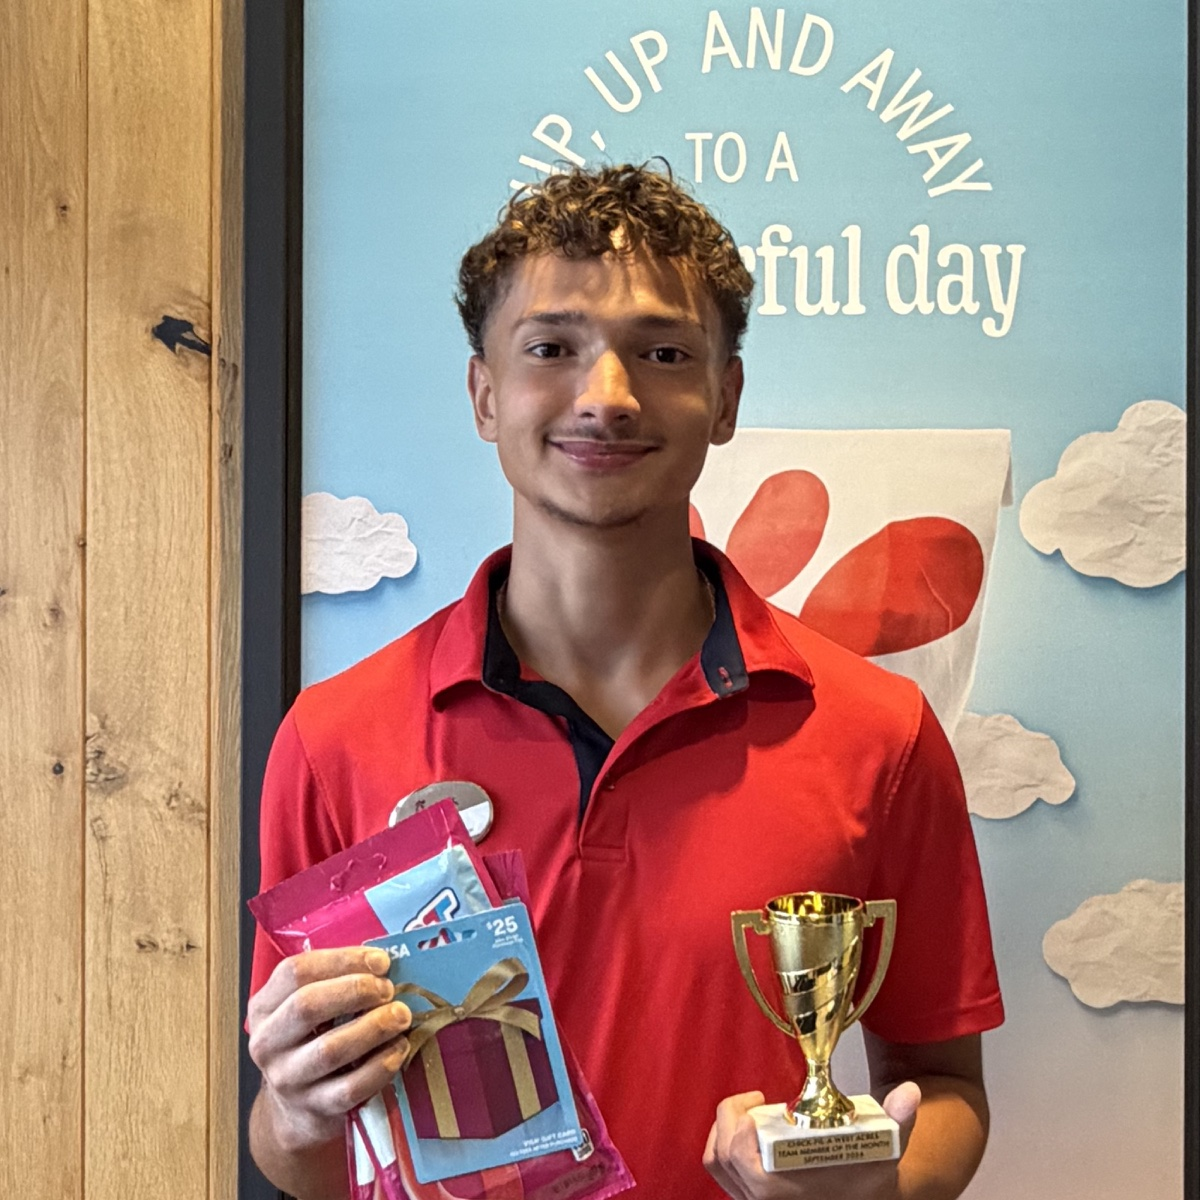
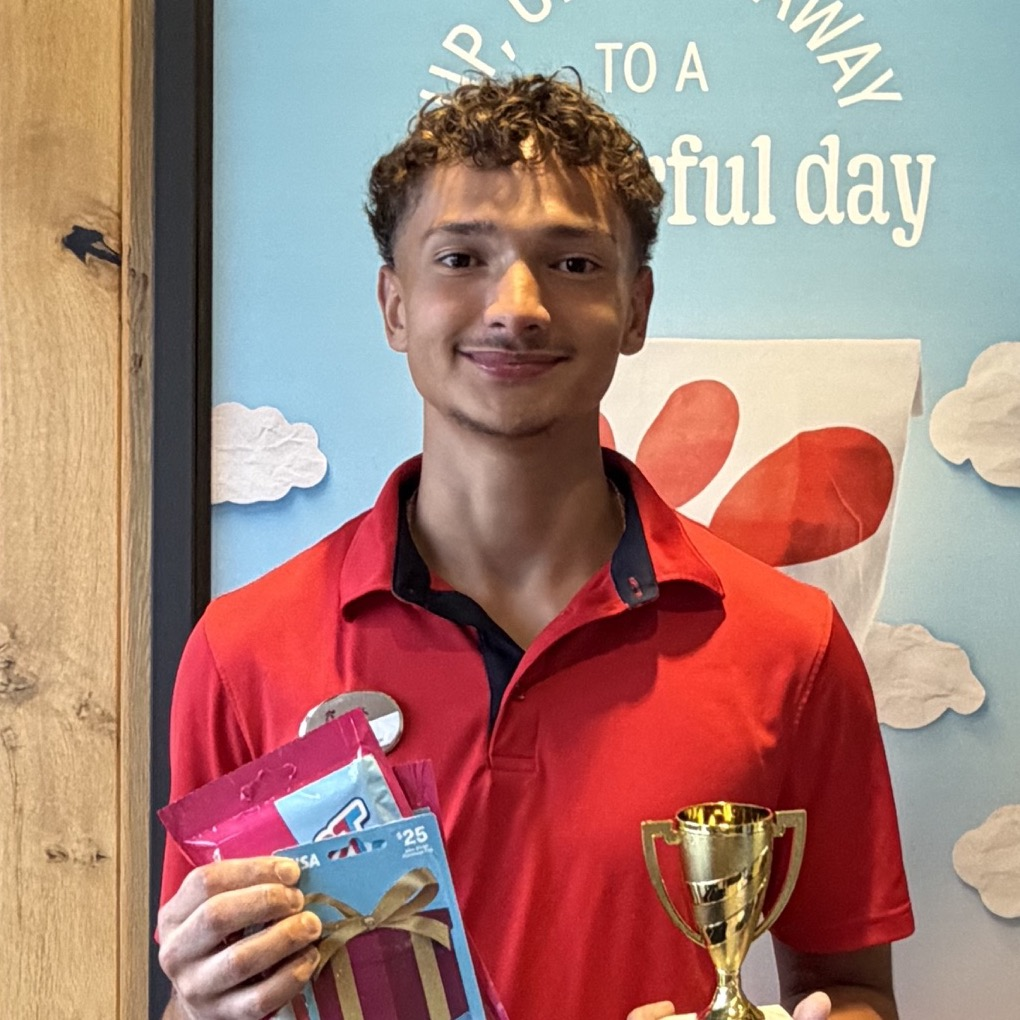
Polish portal member photo and breadcrumbs

diff --git a/team-portal-applications.html b/team-portal-applications.html
@@ -22,7 +22,7 @@
     </header>
     <main id="main">
       <section class="team-portal-section section-pad" aria-labelledby="portal-page-title">
-        <div class="section-kicker"><span>06</span> Team Portal · Employee access</div>
+        <div class="section-kicker"><span>06</span> <a class="portal-home-crumb" href="team-portal.html">Team Portal</a> · Employee access</div>
         <div class="portal-page-heading"><div><p class="eyebrow">Chick-fil-A West Acres team</p><h1 id="portal-page-title">Applications</h1></div><p>Explore opportunities to grow and lead at Chick-fil-A West Acres.</p></div>
         <div class="portal-content-area"><p class="portal-status"><strong>Preview only</strong><span>Secure employee sign-in is not active, so application links are not available yet.</span></p><div class="portal-application-panel"><p class="eyebrow">Growth opportunities</p><ul class="portal-application-list"><li id="application-certified-trainer"><button type="button" disabled><span class="portal-application-number">01</span><span class="portal-application-name">Certified Trainer Application</span><span class="portal-application-state">Application link coming soon</span></button></li><li id="application-assistant-shift-leader"><button type="button" disabled><span class="portal-application-number">02</span><span class="portal-application-name">Assistant Shift Leader Application</span><span class="portal-application-state">Application link coming soon</span></button></li><li id="application-shift-leader"><button type="button" disabled><span class="portal-application-number">03</span><span class="portal-application-name">Shift Leader Application</span><span class="portal-application-state">Application link coming soon</span></button></li><li id="application-supervisor"><button type="button" disabled><span class="portal-application-number">04</span><span class="portal-application-name">Supervisor Application</span><span class="portal-application-state">Application link coming soon</span></button></li></ul></div><a class="portal-back-link" href="team-portal.html">Back to Team Portal Landing Page</a></div>
       </section>

diff --git a/styles.css b/styles.css
@@ -274,6 +274,9 @@ h2 { margin-bottom: 0; font-size: clamp(47px, 5.1vw, 67px); line-height: 1.03; }
 .team-portal-section { min-height: 590px; background: var(--green); color: white; }
 .team-portal-section .section-kicker { color: rgba(255,255,255,.65); }
 .team-portal-section .section-kicker span { color: #f0c876; }
+.team-portal-section .section-kicker .portal-home-crumb { color: inherit; text-decoration: underline; text-decoration-color: rgba(255,255,255,.55); text-underline-offset: 3px; }
+.team-portal-section .section-kicker .portal-home-crumb:hover { color: #f0c876; text-decoration-color: currentColor; }
+.team-portal-section .section-kicker .portal-home-crumb:focus-visible { outline: 2px solid #f0c876; outline-offset: 3px; }
 .portal-status { display: grid; gap: 5px; margin: 19px 0 0; padding: 13px 15px; background: #f0eadb; color: var(--muted); font-size: 10px; line-height: 1.7; }
 .portal-status strong { color: var(--red); font-size: 8px; letter-spacing: .13em; text-transform: uppercase; }
 .portal-page-heading { display: grid; grid-template-columns: 1fr .6fr; gap: 10%; align-items: end; margin-top: 31px; }

diff --git a/team-portal-faqs.html b/team-portal-faqs.html
@@ -22,7 +22,7 @@
     </header>
     <main id="main">
       <section class="team-portal-section section-pad" aria-labelledby="portal-page-title">
-        <div class="section-kicker"><span>06</span> Team Portal · Employee access</div>
+        <div class="section-kicker"><span>06</span> <a class="portal-home-crumb" href="team-portal.html">Team Portal</a> · Employee access</div>
         <div class="portal-page-heading"><div><p class="eyebrow">Chick-fil-A West Acres team</p><h1 id="portal-page-title">Frequently Asked Questions</h1></div><p>Answers to common team questions and portal topics.</p></div>
         <div class="portal-content-area">
           <p class="portal-status"><strong>Preview only</strong><span>Secure employee sign-in is not active yet. Keep employee-specific information off this page until the portal is protected.</span></p>

diff --git a/team-portal-calendar.html b/team-portal-calendar.html
@@ -22,7 +22,7 @@
     </header>
     <main id="main">
       <section class="team-portal-section section-pad" aria-labelledby="portal-page-title">
-        <div class="section-kicker"><span>06</span> Team Portal · Employee access</div>
+        <div class="section-kicker"><span>06</span> <a class="portal-home-crumb" href="team-portal.html">Team Portal</a> · Employee access</div>
         <div class="portal-page-heading"><div><p class="eyebrow">Chick-fil-A West Acres team</p><h1 id="portal-page-title">Calendar</h1></div><p>See team events by month or explore the whole year.</p></div>
         <div class="portal-content-area">
           <p class="portal-status"><strong>Preview only</strong><span>Team event listings are preview content and are not shared with the team. Secure employee sign-in is not active.</span></p>

diff --git a/team-portal-systems.html b/team-portal-systems.html
@@ -22,7 +22,7 @@
     </header>
     <main id="main">
       <section class="team-portal-section section-pad" aria-labelledby="portal-page-title">
-        <div class="section-kicker"><span>06</span> Team Portal · Employee access</div>
+        <div class="section-kicker"><span>06</span> <a class="portal-home-crumb" href="team-portal.html">Team Portal</a> · Employee access</div>
         <div class="portal-page-heading"><div><p class="eyebrow">Chick-fil-A West Acres team</p><h1 id="portal-page-title">Systems</h1></div><p>Leadership, development, and handbook resources in one place.</p></div>
         <div class="portal-content-area">
           <p class="portal-status"><strong>Preview only</strong><span>Secure employee sign-in is not active. Handbook and pathway content can be added when approved.</span></p>

diff --git a/team-portal-forms.html b/team-portal-forms.html
@@ -22,7 +22,7 @@
     </header>
     <main id="main">
       <section class="team-portal-section section-pad" aria-labelledby="portal-page-title">
-        <div class="section-kicker"><span>06</span> Team Portal · Employee access</div>
+        <div class="section-kicker"><span>06</span> <a class="portal-home-crumb" href="team-portal.html">Team Portal</a> · Employee access</div>
         <div class="portal-page-heading"><div><p class="eyebrow">Chick-fil-A West Acres team</p><h1 id="portal-page-title">Links</h1></div><p>A starting point for team forms, scholarships, and related resources.</p></div>
         <div class="portal-content-area">
           <p class="portal-status"><strong>Preview only</strong><span>Secure employee sign-in is not active, so no internal content is stored here yet.</span></p>

diff --git a/team-portal-quick-policies.html b/team-portal-quick-policies.html
@@ -22,7 +22,7 @@
     </header>
     <main id="main">
       <section class="team-portal-section section-pad" aria-labelledby="portal-page-title">
-        <div class="section-kicker"><span>06</span> Team Portal · Employee access</div>
+        <div class="section-kicker"><span>06</span> <a class="portal-home-crumb" href="team-portal.html">Team Portal</a> · Employee access</div>
         <div class="portal-page-heading"><div><p class="eyebrow">Chick-fil-A West Acres team</p><h1 id="portal-page-title">Quick Policies</h1></div><p>Short reminders for common team processes and expectations.</p></div>
         <div class="portal-content-area">
           <p class="portal-status"><strong>Preview only</strong><span>These policy references are for the team portal preview.</span></p>

diff --git a/team-portal-platforms.html b/team-portal-platforms.html
@@ -22,7 +22,7 @@
     </header>
     <main id="main">
       <section class="team-portal-section section-pad" aria-labelledby="portal-page-title">
-        <div class="section-kicker"><span>06</span> Team Portal · Employee access</div>
+        <div class="section-kicker"><span>06</span> <a class="portal-home-crumb" href="team-portal.html">Team Portal</a> · Employee access</div>
         <div class="portal-page-heading"><div><p class="eyebrow">Chick-fil-A West Acres team</p><h1 id="portal-page-title">Platforms</h1></div><p>Tools and platforms used by the Chick-fil-A West Acres team.</p></div>
         <div class="portal-content-area">
           <p class="portal-status"><strong>Preview only</strong><span>Platform access depends on your approved team account.</span></p>

diff --git a/team-portal-handbook.html b/team-portal-handbook.html
@@ -22,7 +22,7 @@
     </header>
     <main id="main">
       <section class="team-portal-section section-pad" aria-labelledby="portal-page-title">
-        <div class="section-kicker"><span>06</span> Team Portal · Employee access</div>
+        <div class="section-kicker"><span>06</span> <a class="portal-home-crumb" href="team-portal.html">Team Portal</a> · Employee access</div>
         <div class="portal-page-heading"><div><p class="eyebrow">Chick-fil-A West Acres team</p><h1 id="portal-page-title">Team Handbook</h1></div><p>A broad overview of store standards and policies.</p></div>
         <div class="portal-content-area">
           <p class="portal-status"><strong>Preview only</strong><span>The handbook PDF will appear here when it is available.</span></p>

diff --git a/team-portal.html b/team-portal.html
@@ -24,7 +24,6 @@
     </header>
     <main id="main">
       <section class="team-portal-section section-pad" aria-labelledby="team-portal-title">
-        <div class="section-kicker"><span>06</span> Team Portal · Employee access</div>
         <div class="portal-page-heading portal-home-heading"><div><p class="eyebrow">For our Chick-fil-A West Acres team</p><h1 id="team-portal-title">Team Portal</h1></div><p>Announcements and helpful team pages in one place.</p></div>
         <p class="portal-status portal-preview-note"><strong>Preview only</strong><span>Secure employee sign-in is not active yet. Keep employee-specific details off this page until the portal is protected.</span></p>
         <div class="portal-dashboard-highlights">
